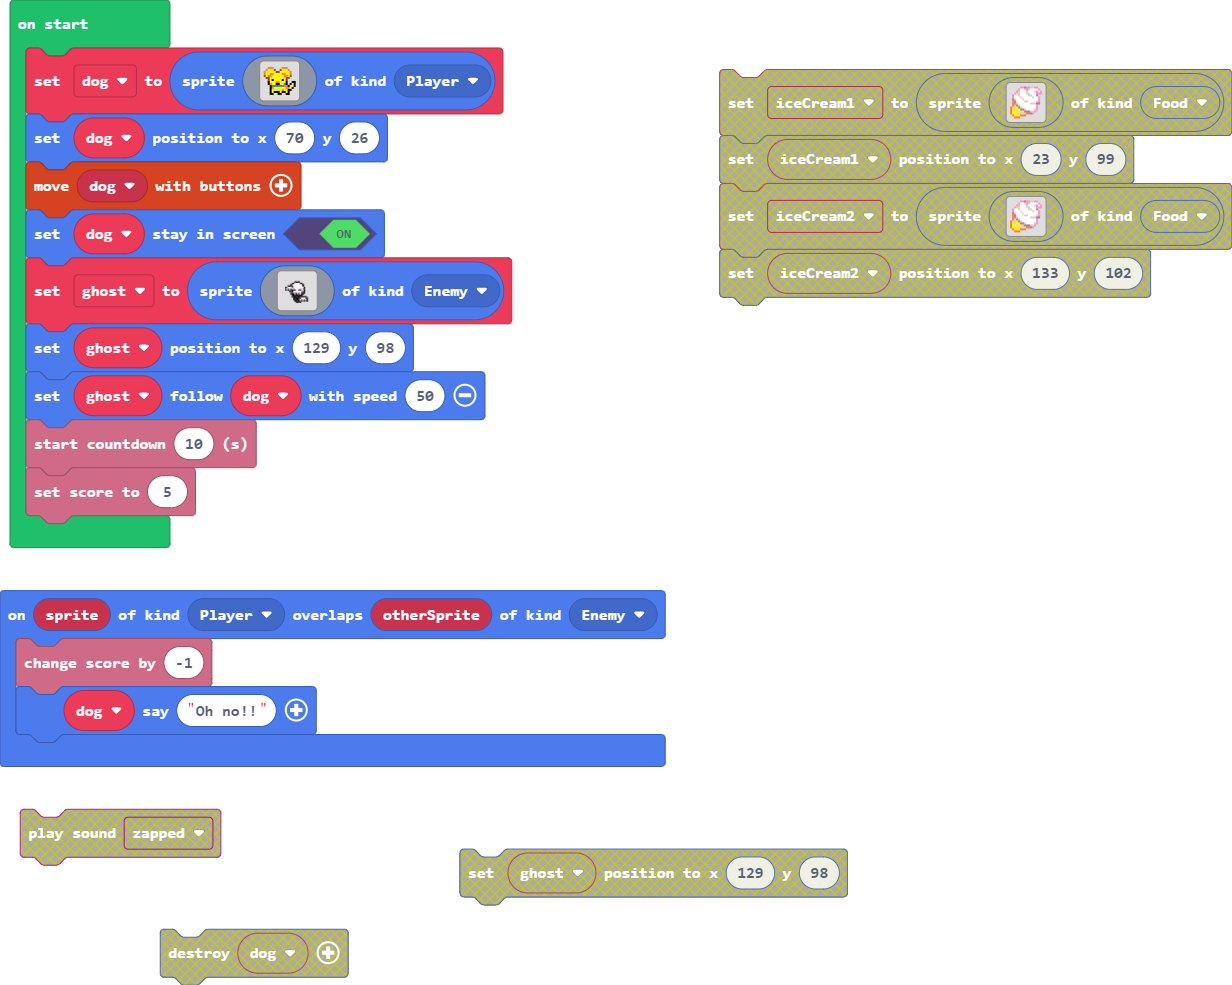
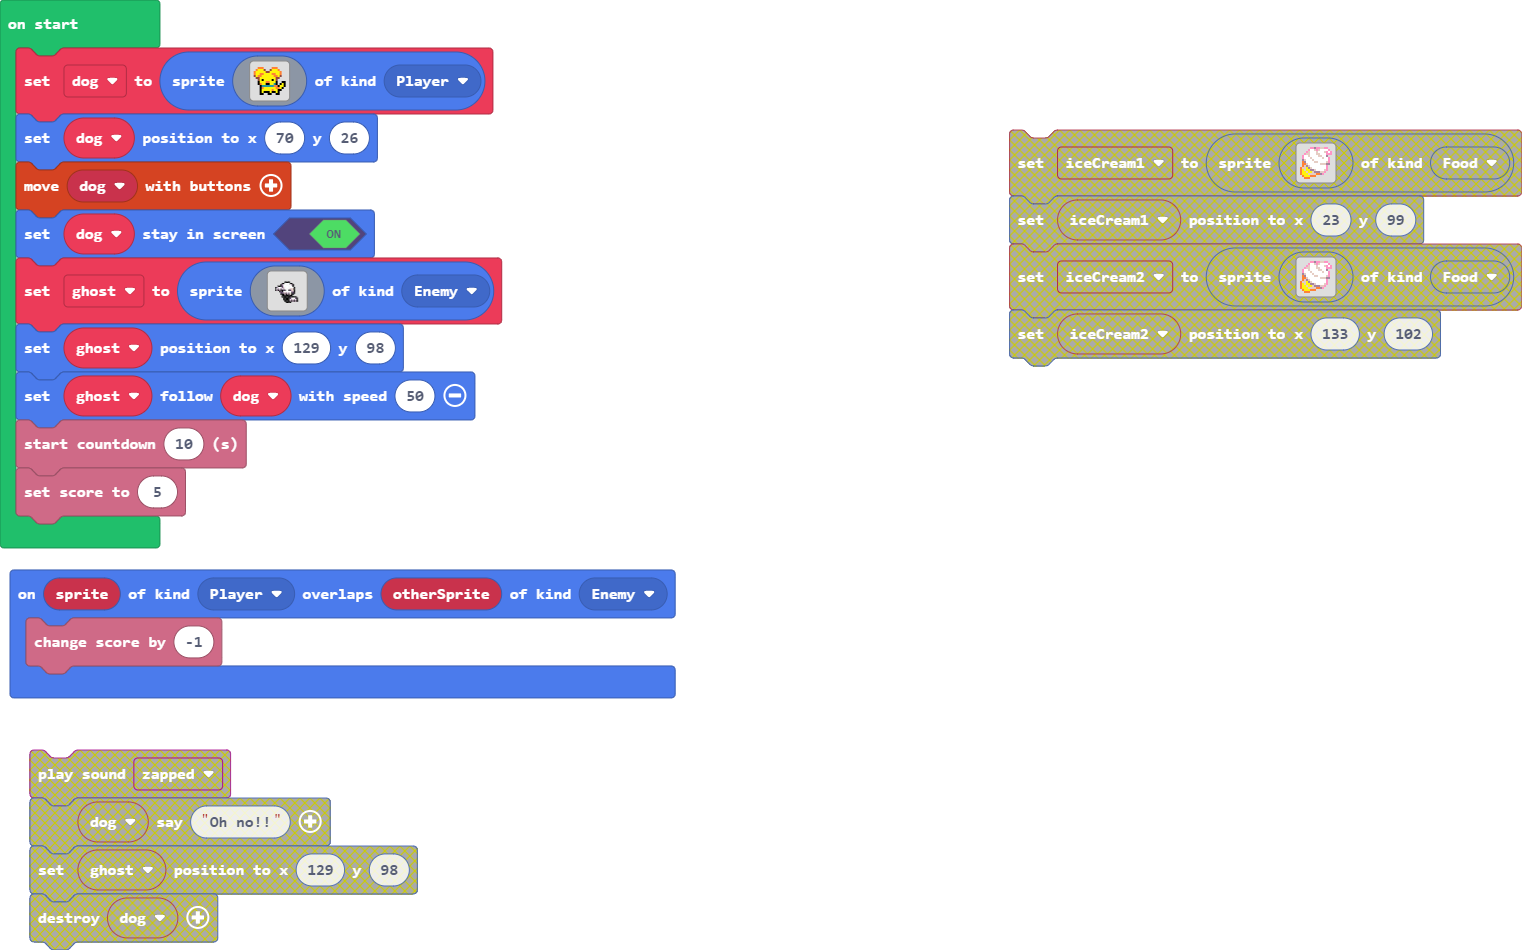
Update main.blocks, main.ts

diff --git a/main.ts b/main.ts
@@ -1,9 +1,7 @@
 sprites.onOverlap(SpriteKind.Player, SpriteKind.Enemy, function (sprite, otherSprite) {
     info.changeScoreBy(-1)
-    dog.say("Oh no!!")
 })
-let dog: Sprite = null
-dog = sprites.create(img`
+let dog = sprites.create(img`
     . . 4 4 4 . . . . 4 4 4 . . . . 
     . 4 5 5 5 e . . e 5 5 5 4 . . . 
     4 5 5 5 5 5 e e 5 5 5 5 5 4 . . 
